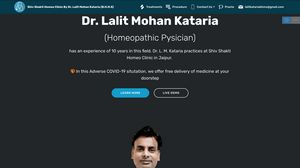
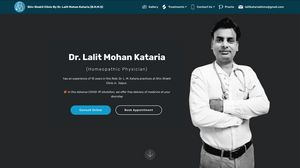
shifted image

diff --git a/index.html b/index.html
@@ -77,7 +77,7 @@
     </nav>
 </section>
 
-<section class="engine"><a href="https://mobirise.info/m">web design templates</a></section><section class="header10 cid-s2xuLCpu1f mbr-fullscreen mbr-parallax-background" id="header10-a">
+<section class="engine"><a href="https://mobirise.info/m">free web design templates</a></section><section class="header10 cid-s2xuLCpu1f mbr-fullscreen mbr-parallax-background" id="header10-a">
 
     
 
@@ -411,7 +411,7 @@
         <div class="row justify-content-center">
             <div class="media-container-column col-lg-8" data-form-type="formoid">
                 <!---Formbuilder Form--->
[2 lines of base64/hex data omitted]
                     <div class="row">
                         <div hidden="hidden" data-form-alert="" class="alert alert-success col-12">Thanks for filling out the form!</div>
                         <div hidden="hidden" data-form-alert-danger="" class="alert alert-danger col-12">
@@ -446,7 +446,7 @@
 
      
 
-    <div class="google-map"><iframe frameborder="0" style="border:0" src="https://www.google.com/maps/embed/v1/place?key=AIzaSyAEIpgj38KyLFELm2bK9Y7krBkz1K-cMq8&amp;q=place_id:ChIJ_bqgSzHJbTkRkfYFSTznDe8" allowfullscreen=""></iframe></div>
+    <div class="google-map"><iframe frameborder="0" style="border:0" src="https://www.google.com/maps/embed/v1/place?key=AIzaSyCy9r70T3NYf3PhvVflTo0_zdif2_IoIYs&amp;q=place_id:ChIJ_bqgSzHJbTkRkfYFSTznDe8" allowfullscreen=""></iframe></div>
 </section>
 
 <section class="cid-qTkAaeaxX5" id="footer1-2">
@@ -539,7 +539,7 @@
   <script src="assets/formoid/formoid.min.js"></script>
   
   
- <div id="scrollToTop" class="scrollToTop mbr-arrow-up"><a style="text-align: center;"><i class="mbr-arrow-up-icon mbr-arrow-up-icon-cm cm-icon cm-icon-smallarrow-up"></i></a></div>
-    <input name="animation" type="hidden">
+  <input name="animation" type="hidden">
+   <div id="scrollToTop" class="scrollToTop mbr-arrow-up"><a style="text-align: center;"><i class="mbr-arrow-up-icon mbr-arrow-up-icon-cm cm-icon cm-icon-smallarrow-up"></i></a></div>
   </body>
 </html>

diff --git a/assets/mobirise/css/mbr-additional.css b/assets/mobirise/css/mbr-additional.css
@@ -711,7 +711,7 @@ section.lazy-placeholder:after {
   opacity: 0.3;
 }
 .cid-s2xuLCpu1f {
-  background-image: url("../../../assets/images/bw-2000x1554.png");
+  background-image: url("../../../assets/images/bw-1-2000x1554.png");
 }
 .cid-s2xuLCpu1f .mbr-section-subtitle {
   letter-spacing: .2rem;
